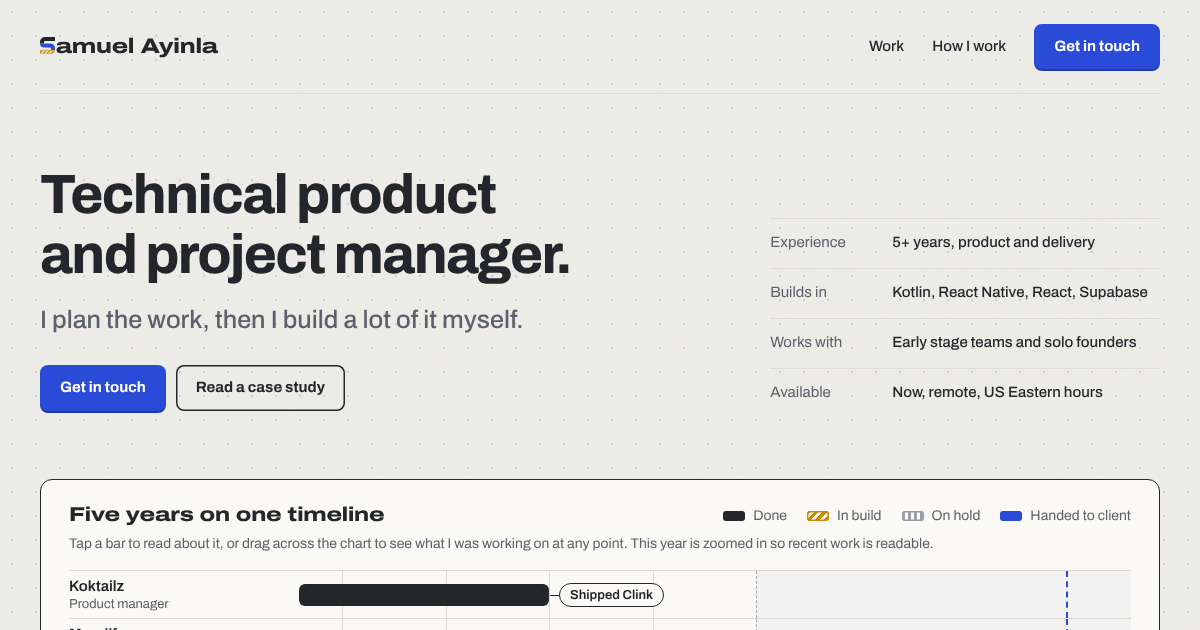
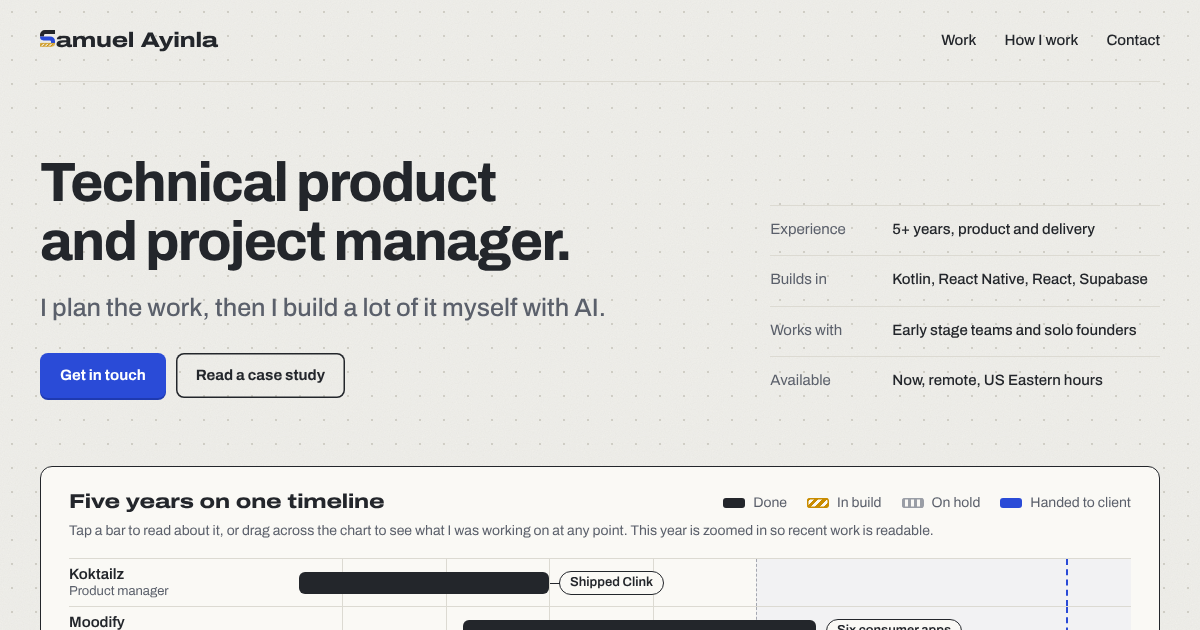
Header links, AI subline, new contact card

diff --git a/index.html b/index.html
@@ -35,7 +35,7 @@
     <nav aria-label="Main">
       <a class="navlink press" href="#work">Work</a>
       <a class="navlink press" href="#how">How I work</a>
-      <a class="btn press" href="#contact">Get in touch</a>
+      <a class="navlink press" href="#contact">Contact</a>
     </nav>
   </header>
 </div>
@@ -45,7 +45,7 @@
     <section class="hero" aria-labelledby="name">
       <div>
         <h1 id="name" class="name">Technical product and project manager.</h1>
-        <p class="lede">I plan the work, then I build a lot of it myself.</p>
+        <p class="lede">I plan the work, then I build a lot of it myself with AI.</p>
         <div class="ctas">
           <a class="btn press" href="#contact">Get in touch</a>
           <a class="btn line press" href="#case">Read a case study</a>
@@ -173,13 +173,19 @@
       <div class="contact" id="contact" aria-labelledby="contact-title">
         <h2 id="contact-title">Let's talk</h2>
         <p>Open to remote product and project roles, full time or contract, and to founders who need something built.</p>
-        <ul class="links">
-          <li><a class="soc press" href="mailto:adeyemisam42@gmail.com"><span class="ic"><svg aria-hidden="true" focusable="false" xmlns="http://www.w3.org/2000/svg" viewBox="0 0 24 24" fill="none" stroke="currentColor" stroke-width="2" stroke-linecap="round" stroke-linejoin="round" ><path d="m22 7-8.991 5.727a2 2 0 0 1-2.009 0L2 7" /><rect x="2" y="4" width="20" height="16" rx="2" /></svg></span><span class="k">Email</span><span class="v">adeyemisam42@gmail.com</span></a></li>
-          <li><a class="soc press" href="https://wa.me/2348148855525" target="_blank" rel="noopener"><span class="ic"><svg aria-hidden="true" focusable="false" fill="currentColor" viewBox="0 0 24 24" xmlns="http://www.w3.org/2000/svg"><path d="M17.472 14.382c-.297-.149-1.758-.867-2.03-.967-.273-.099-.471-.148-.67.15-.197.297-.767.966-.94 1.164-.173.199-.347.223-.644.075-.297-.15-1.255-.463-2.39-1.475-.883-.788-1.48-1.761-1.653-2.059-.173-.297-.018-.458.13-.606.134-.133.298-.347.446-.52.149-.174.198-.298.298-.497.099-.198.05-.371-.025-.52-.075-.149-.669-1.612-.916-2.207-.242-.579-.487-.5-.669-.51-.173-.008-.371-.01-.57-.01-.198 0-.52.074-.792.372-.272.297-1.04 1.016-1.04 2.479 0 1.462 1.065 2.875 1.213 3.074.149.198 2.096 3.2 5.077 4.487.709.306 1.262.489 1.694.625.712.227 1.36.195 1.871.118.571-.085 1.758-.719 2.006-1.413.248-.694.248-1.289.173-1.413-.074-.124-.272-.198-.57-.347m-5.421 7.403h-.004a9.87 9.87 0 01-5.031-1.378l-.361-.214-3.741.982.998-3.648-.235-.374a9.86 9.86 0 01-1.51-5.26c.001-5.45 4.436-9.884 9.888-9.884 2.64 0 5.122 1.03 6.988 2.898a9.825 9.825 0 012.893 6.994c-.003 5.45-4.437 9.884-9.885 9.884m8.413-18.297A11.815 11.815 0 0012.05 0C5.495 0 .16 5.335.157 11.892c0 2.096.547 4.142 1.588 5.945L.057 24l6.305-1.654a11.882 11.882 0 005.683 1.448h.005c6.554 0 11.89-5.335 11.893-11.893a11.821 11.821 0 00-3.48-8.413Z"/></svg></span><span class="k">WhatsApp</span><span class="v">+234 814 885 5525</span></a></li>
-          <li><a class="soc press" href="https://t.me/noirtec" target="_blank" rel="noopener"><span class="ic"><svg aria-hidden="true" focusable="false" fill="currentColor" viewBox="0 0 24 24" xmlns="http://www.w3.org/2000/svg"><path d="M11.944 0A12 12 0 0 0 0 12a12 12 0 0 0 12 12 12 12 0 0 0 12-12A12 12 0 0 0 12 0a12 12 0 0 0-.056 0zm4.962 7.224c.1-.002.321.023.465.14a.506.506 0 0 1 .171.325c.016.093.036.306.02.472-.18 1.898-.962 6.502-1.36 8.627-.168.9-.499 1.201-.82 1.23-.696.065-1.225-.46-1.9-.902-1.056-.693-1.653-1.124-2.678-1.8-1.185-.78-.417-1.21.258-1.91.177-.184 3.247-2.977 3.307-3.23.007-.032.014-.15-.056-.212s-.174-.041-.249-.024c-.106.024-1.793 1.14-5.061 3.345-.48.33-.913.49-1.302.48-.428-.008-1.252-.241-1.865-.44-.752-.245-1.349-.374-1.297-.789.027-.216.325-.437.893-.663 3.498-1.524 5.83-2.529 6.998-3.014 3.332-1.386 4.025-1.627 4.476-1.635z"/></svg></span><span class="k">Telegram</span><span class="v">@noirtec</span></a></li>
-          <li><a class="soc press" href="https://www.linkedin.com/in/samuel-project-manager/" target="_blank" rel="noopener"><span class="ic"><svg aria-hidden="true" focusable="false" xmlns="http://www.w3.org/2000/svg" viewBox="0 0 24 24" fill="none" stroke="currentColor" stroke-width="2" stroke-linecap="round" stroke-linejoin="round" ><path d="M12 12h.01" /><path d="M16 6V4a2 2 0 0 0-2-2h-4a2 2 0 0 0-2 2v2" /><path d="M22 13a18.15 18.15 0 0 1-20 0" /><rect width="20" height="14" x="2" y="6" rx="2" /></svg></span><span class="k">LinkedIn</span><span class="v">Samuel Ayinla</span></a></li>
-          <li><a class="soc press" href="https://contra.com/sam_ola_g583ixol" target="_blank" rel="noopener"><span class="ic"><svg aria-hidden="true" focusable="false" xmlns="http://www.w3.org/2000/svg" viewBox="0 0 24 24" fill="none" stroke="currentColor" stroke-width="2" stroke-linecap="round" stroke-linejoin="round" ><path d="m11 17 2 2a1 1 0 1 0 3-3" /><path d="m14 14 2.5 2.5a1 1 0 1 0 3-3l-3.88-3.88a3 3 0 0 0-4.24 0l-.88.88a1 1 0 1 1-3-3l2.81-2.81a5.79 5.79 0 0 1 7.06-.87l.47.28a2 2 0 0 0 1.42.25L21 4" /><path d="m21 3 1 11h-2" /><path d="M3 3 2 14l6.5 6.5a1 1 0 1 0 3-3" /><path d="M3 4h8" /></svg></span><span class="k">Contra</span><span class="v">Hire me for a project</span></a></li>
-        </ul>
+        <div class="reach">
+          <div class="mail-row">
+            <a class="btn mail press" href="mailto:adeyemisam42@gmail.com" aria-label="Email me at adeyemisam42@gmail.com"><span class="mi"><svg aria-hidden="true" focusable="false" xmlns="http://www.w3.org/2000/svg" viewBox="0 0 24 24" fill="none" stroke="currentColor" stroke-width="2" stroke-linecap="round" stroke-linejoin="round" ><path d="m22 7-8.991 5.727a2 2 0 0 1-2.009 0L2 7" /><rect x="2" y="4" width="20" height="16" rx="2" /></svg></span>Email me</a>
+            <button type="button" class="copy press" data-copy="adeyemisam42@gmail.com" aria-label="Copy my email address">Copy email</button>
+          </div>
+          <ul class="tiles">
+            <li><a class="tile press" href="https://wa.me/2348148855525" target="_blank" rel="noopener" aria-label="WhatsApp, +234 814 885 5525" title="+234 814 885 5525"><span class="ic"><svg aria-hidden="true" focusable="false" fill="currentColor" viewBox="0 0 24 24" xmlns="http://www.w3.org/2000/svg"><path d="M17.472 14.382c-.297-.149-1.758-.867-2.03-.967-.273-.099-.471-.148-.67.15-.197.297-.767.966-.94 1.164-.173.199-.347.223-.644.075-.297-.15-1.255-.463-2.39-1.475-.883-.788-1.48-1.761-1.653-2.059-.173-.297-.018-.458.13-.606.134-.133.298-.347.446-.52.149-.174.198-.298.298-.497.099-.198.05-.371-.025-.52-.075-.149-.669-1.612-.916-2.207-.242-.579-.487-.5-.669-.51-.173-.008-.371-.01-.57-.01-.198 0-.52.074-.792.372-.272.297-1.04 1.016-1.04 2.479 0 1.462 1.065 2.875 1.213 3.074.149.198 2.096 3.2 5.077 4.487.709.306 1.262.489 1.694.625.712.227 1.36.195 1.871.118.571-.085 1.758-.719 2.006-1.413.248-.694.248-1.289.173-1.413-.074-.124-.272-.198-.57-.347m-5.421 7.403h-.004a9.87 9.87 0 01-5.031-1.378l-.361-.214-3.741.982.998-3.648-.235-.374a9.86 9.86 0 01-1.51-5.26c.001-5.45 4.436-9.884 9.888-9.884 2.64 0 5.122 1.03 6.988 2.898a9.825 9.825 0 012.893 6.994c-.003 5.45-4.437 9.884-9.885 9.884m8.413-18.297A11.815 11.815 0 0012.05 0C5.495 0 .16 5.335.157 11.892c0 2.096.547 4.142 1.588 5.945L.057 24l6.305-1.654a11.882 11.882 0 005.683 1.448h.005c6.554 0 11.89-5.335 11.893-11.893a11.821 11.821 0 00-3.48-8.413Z"/></svg></span><span class="k">WhatsApp</span></a></li>
+            <li><a class="tile press" href="https://t.me/noirtec" target="_blank" rel="noopener" aria-label="Telegram, @noirtec" title="@noirtec"><span class="ic"><svg aria-hidden="true" focusable="false" fill="currentColor" viewBox="0 0 24 24" xmlns="http://www.w3.org/2000/svg"><path d="M11.944 0A12 12 0 0 0 0 12a12 12 0 0 0 12 12 12 12 0 0 0 12-12A12 12 0 0 0 12 0a12 12 0 0 0-.056 0zm4.962 7.224c.1-.002.321.023.465.14a.506.506 0 0 1 .171.325c.016.093.036.306.02.472-.18 1.898-.962 6.502-1.36 8.627-.168.9-.499 1.201-.82 1.23-.696.065-1.225-.46-1.9-.902-1.056-.693-1.653-1.124-2.678-1.8-1.185-.78-.417-1.21.258-1.91.177-.184 3.247-2.977 3.307-3.23.007-.032.014-.15-.056-.212s-.174-.041-.249-.024c-.106.024-1.793 1.14-5.061 3.345-.48.33-.913.49-1.302.48-.428-.008-1.252-.241-1.865-.44-.752-.245-1.349-.374-1.297-.789.027-.216.325-.437.893-.663 3.498-1.524 5.83-2.529 6.998-3.014 3.332-1.386 4.025-1.627 4.476-1.635z"/></svg></span><span class="k">Telegram</span></a></li>
+            <li><a class="tile press" href="https://www.linkedin.com/in/samuel-project-manager/" target="_blank" rel="noopener" aria-label="LinkedIn profile" title="LinkedIn profile"><span class="ic"><svg aria-hidden="true" focusable="false" xmlns="http://www.w3.org/2000/svg" viewBox="0 0 24 24" fill="none" stroke="currentColor" stroke-width="2" stroke-linecap="round" stroke-linejoin="round" ><path d="M12 12h.01" /><path d="M16 6V4a2 2 0 0 0-2-2h-4a2 2 0 0 0-2 2v2" /><path d="M22 13a18.15 18.15 0 0 1-20 0" /><rect width="20" height="14" x="2" y="6" rx="2" /></svg></span><span class="k">LinkedIn</span></a></li>
+            <li><a class="tile press" href="https://contra.com/sam_ola_g583ixol" target="_blank" rel="noopener" aria-label="Hire me on Contra" title="Hire me on Contra"><span class="ic"><svg aria-hidden="true" focusable="false" xmlns="http://www.w3.org/2000/svg" viewBox="0 0 24 24" fill="none" stroke="currentColor" stroke-width="2" stroke-linecap="round" stroke-linejoin="round" ><path d="m11 17 2 2a1 1 0 1 0 3-3" /><path d="m14 14 2.5 2.5a1 1 0 1 0 3-3l-3.88-3.88a3 3 0 0 0-4.24 0l-.88.88a1 1 0 1 1-3-3l2.81-2.81a5.79 5.79 0 0 1 7.06-.87l.47.28a2 2 0 0 0 1.42.25L21 4" /><path d="m21 3 1 11h-2" /><path d="M3 3 2 14l6.5 6.5a1 1 0 1 0 3-3" /><path d="M3 4h8" /></svg></span><span class="k">Contra</span></a></li>
+          </ul>
+          <p class="copied" role="status" aria-live="polite"></p>
+        </div>
       </div>
     </section>
   </div>

diff --git a/styles.css b/styles.css
@@ -42,7 +42,7 @@ h1,h2,h3{font-stretch:125%;letter-spacing:-.025em;line-height:1.05}
 .sr{position:absolute;width:1px;height:1px;padding:0;margin:-1px;overflow:hidden;clip:rect(0 0 0 0);white-space:nowrap;border:0}
 .name .logo-s{height:.73em;width:auto;margin-right:.035em;vertical-align:baseline;overflow:visible}
 .top nav{display:flex;gap:28px;align-items:center;font-size:15px;font-weight:500}
-.navlink{text-decoration:none;display:inline-block}
+.navlink{text-decoration:none;display:inline-block;white-space:nowrap}
 .navlink:hover{color:var(--cobalt)}
 .btn{display:inline-block;background:var(--cobalt);color:#fff;padding:11px 20px;border-radius:8px;font-weight:700;font-size:15px;text-decoration:none;box-shadow:0 2px 0 var(--cobalt-dark)}
 .btn:hover{background:var(--cobalt-dark)}
@@ -53,7 +53,7 @@ h1,h2,h3{font-stretch:125%;letter-spacing:-.025em;line-height:1.05}
 /* hero */
 .hero{display:grid;grid-template-columns:7fr 4fr;gap:48px;align-items:end;padding:72px 0 44px}
 .name{font-weight:750;font-stretch:100%;font-size:clamp(34px,4.6vw,60px);line-height:1.08;letter-spacing:-.03em;max-width:16ch;text-wrap:balance}
-.lede{font-size:clamp(20px,2.1vw,26px);line-height:1.35;margin-top:18px;max-width:34ch;font-weight:500;color:var(--muted);text-wrap:pretty}
+.lede{font-size:clamp(20px,2.1vw,26px);line-height:1.35;margin-top:18px;max-width:40ch;font-weight:500;color:var(--muted);text-wrap:pretty}
 .ctas{display:flex;flex-wrap:wrap;gap:10px;margin-top:28px}
 .facts{display:grid;gap:14px;font-size:15px;padding-bottom:6px}
 .facts div{display:grid;grid-template-columns:110px 1fr;gap:12px;border-top:1px solid var(--grid);padding-top:12px}
@@ -211,16 +211,23 @@ h1,h2,h3{font-stretch:125%;letter-spacing:-.025em;line-height:1.05}
 .cert-link:hover{color:var(--cobalt)}
 .contact{background:var(--wash);border-radius:var(--radius);padding:36px;scroll-margin-top:12px}
 .contact > p{margin-top:10px;color:var(--muted)}
-.links{margin-top:22px}
-.soc{display:grid;grid-template-columns:34px auto 1fr;align-items:center;gap:14px;padding:11px 10px;margin:0 -10px;border-top:1px solid #CDD5F4;text-decoration:none;border-radius:10px}
-.links li:first-child .soc{border-top-color:transparent}
-.soc .k{font-weight:600}
-.soc .v{color:var(--muted);text-align:right;overflow-wrap:anywhere}
-.soc:hover{background:rgba(42,75,215,.08)}
-.soc:active{background:rgba(42,75,215,.14)}
-.ic{width:34px;height:34px;border-radius:9px;background:var(--cobalt);color:#fff;display:grid;place-items:center;transition:transform .2s var(--ease)}
-.ic svg{width:18px;height:18px}
-.soc:hover .ic{transform:rotate(-6deg)}
+.reach{margin-top:24px}
+.mail-row{display:flex;gap:10px;flex-wrap:wrap}
+.btn.mail{display:inline-flex;align-items:center;gap:10px;padding:13px 22px;font-size:16px}
+.mi{display:grid;place-items:center}
+.mi svg{width:18px;height:18px}
+.copy{font:inherit;font-size:15px;font-weight:700;color:var(--ink);background:var(--sheet);border:0;box-shadow:inset 0 0 0 1.5px var(--ink);border-radius:8px;padding:13px 18px;cursor:pointer}
+.copy:hover{background:var(--ink);color:var(--paper)}
+.copy.done{background:var(--ink);color:var(--paper)}
+.tiles{display:grid;grid-template-columns:repeat(4,1fr);gap:10px;margin-top:14px}
+.tile{display:flex;flex-direction:column;align-items:center;gap:9px;padding:16px 6px 13px;border-radius:12px;background:var(--sheet);text-decoration:none;box-shadow:inset 0 0 0 1px #CDD5F4}
+.tile .k{font-size:14px;font-weight:600}
+.tile:hover{box-shadow:inset 0 0 0 1.5px var(--cobalt)}
+.tile:hover .ic{transform:translateY(-2px) rotate(-6deg)}
+.tile:active{background:#DCE3FB}
+.ic{width:40px;height:40px;border-radius:11px;background:var(--cobalt);color:#fff;display:grid;place-items:center;transition:transform .2s var(--ease)}
+.ic svg{width:20px;height:20px}
+.copied{font-size:14px;color:var(--muted);min-height:1.4em;margin:10px 0 -6px}
 
 .foot{display:flex;justify-content:space-between;gap:16px;flex-wrap:wrap;padding:24px 0 40px;border-top:1px solid var(--grid);font-size:14px;color:var(--muted)}
 
@@ -249,7 +256,8 @@ h1,h2,h3{font-stretch:125%;letter-spacing:-.025em;line-height:1.05}
 }
 @media (max-width:640px){
   .wrap{padding:0 16px}
-  .navlink{display:none}
+  .top nav{gap:16px;font-size:14px}
+  .me{font-size:17px}
   .road{padding:18px 14px;margin:16px 0 48px}
   .chart{grid-template-columns:1fr}
   .lane-label{height:auto;padding-top:10px;border-top:1px solid var(--grid)}
@@ -268,8 +276,17 @@ h1,h2,h3{font-stretch:125%;letter-spacing:-.025em;line-height:1.05}
   .inspect .i-go{margin:10px 0 0;justify-self:start}
   .case,.other,.bottom{padding:48px 0}
   .contact{padding:24px 18px}
-  .soc{grid-template-columns:34px 1fr;row-gap:0}
-  .soc .ic{grid-row:span 2}
-  .soc .v{text-align:left;font-size:14px}
+  .tiles{gap:8px}
+  .tile{padding:14px 2px 11px}
+  .tile .k{font-size:12.5px}
+  .ic{width:36px;height:36px}
   .facts div{grid-template-columns:96px 1fr}
+}
+@media (max-width:385px){
+  .top nav{gap:13px;font-size:13px}
+  .me{font-size:15px}
+}
+@media (max-width:350px){
+  .me span{display:none}
+  .me{font-size:22px}
 }

diff --git a/main.js b/main.js
@@ -283,6 +283,31 @@ function runFlow() {
   new IntersectionObserver(es => es.forEach(e => e.isIntersecting ? start() : stop()), { threshold: 0.35 }).observe(svg);
 }
 
+// Copy email: copies the address and confirms right under the buttons.
+function copyEmail() {
+  const btn = document.querySelector(".copy");
+  const note = document.querySelector(".copied");
+  if (!btn) return;
+  let t;
+  btn.addEventListener("click", async () => {
+    const text = btn.dataset.copy;
+    let ok = false;
+    try { await navigator.clipboard.writeText(text); ok = true; }
+    catch (e) {
+      const ta = document.createElement("textarea");
+      ta.value = text; ta.setAttribute("readonly", ""); ta.style.position = "fixed"; ta.style.opacity = "0";
+      document.body.appendChild(ta); ta.select();
+      try { ok = document.execCommand("copy"); } catch (e2) { ok = false; }
+      ta.remove();
+    }
+    btn.textContent = ok ? "Copied" : "Copy email";
+    btn.classList.toggle("done", ok);
+    note.textContent = ok ? `${text} is on your clipboard.` : `Couldn't copy. The address is ${text}.`;
+    clearTimeout(t);
+    t = setTimeout(() => { btn.textContent = "Copy email"; btn.classList.remove("done"); note.textContent = ""; }, 2600);
+  });
+}
+
 function storeLinks() {
   document.querySelectorAll("[data-store]").forEach(a => {
     const url = STORE[a.dataset.store];
@@ -293,6 +318,7 @@ function storeLinks() {
 
 document.getElementById("yr").textContent = today.getFullYear();
 storeLinks();
+copyEmail();
 buildChart();
 select(DEFAULT, false);
 runFlow();
